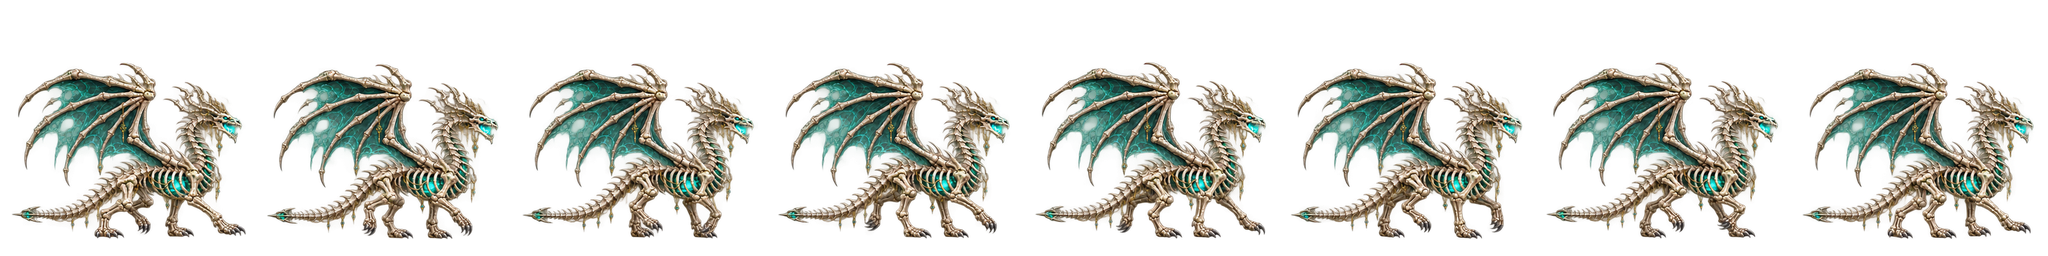
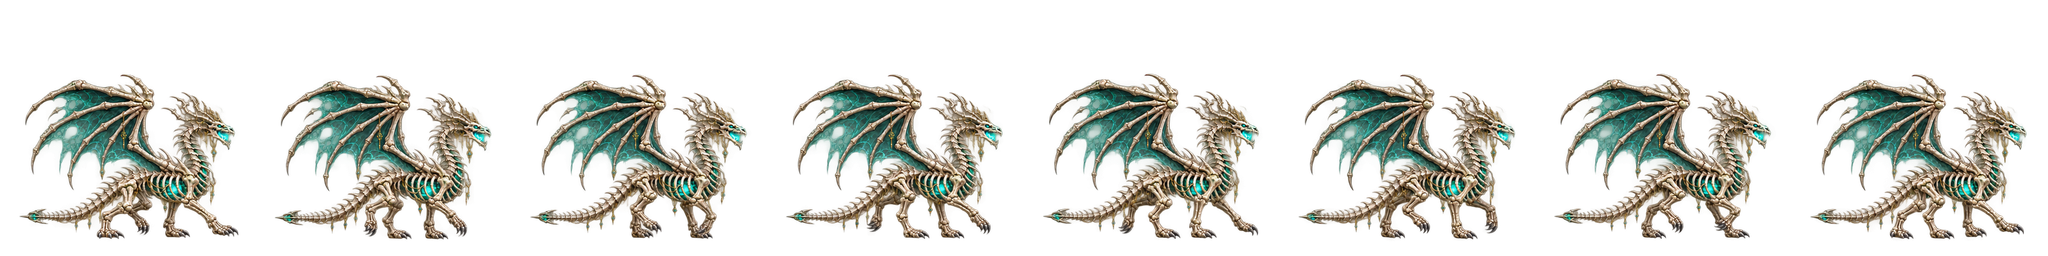
고침: 변환 스크립트가 상태마다 다른 배율을 쓰던 문제
- --set 으로 한 드래곤의 여러 상태를 한 번에 변환하면 기준 상태(idle)로
  배율을 한 번 정해 모든 상태에 같은 배율을 쓴다
- 위치는 상태마다 바닥 중앙에 맞춘다 (원본 캔버스의 상태 간 위치는 믿지 않음)
- --scale-state 로 원본 그림 자체가 다른 크기일 때 상태별 보정
- 망령룡 세 시트를 같은 배율로 다시 변환 (비행이 대기의 73%였던 문제 해결)

Claude-Session: https://claude.ai/code/session_016odmvmxTxUNzgUnkFfijvc

diff --git a/tools/make_sheet.py b/tools/make_sheet.py
@@ -76,10 +76,121 @@ def load_frames(src: Path, cols, mirror):
     return frames
 
 
+def union_box(boxes):
+    return (min(b[0] for b in boxes), min(b[1] for b in boxes),
+            max(b[2] for b in boxes), max(b[3] for b in boxes))
+
+
+def multi(args, cell, anchor_x, anchor_y):
+    """한 드래곤의 여러 상태를 같은 배율·같은 위치로 변환한다.
+
+    상태마다 따로 변환하면 비행처럼 윤곽이 큰 동작이 더 작게 그려진다
+    (날개를 펼쳐 윤곽 높이가 커지는데 그 높이를 --ratio 에 맞추므로).
+    여기서는 기준 상태의 윤곽으로 배율을 한 번 정하고 모든 상태에 그대로 쓴다.
+    원본 캔버스 안에서의 상태 간 위치 차이도 그대로 보존된다.
+    """
+    sets = {}
+    for item in args.set:
+        if "=" not in item:
+            sys.exit(f"--set 형식은 상태=경로 입니다: {item}")
+        state, path = item.split("=", 1)
+        sets[state.strip()] = Path(path.strip())
+
+    loaded = {}
+    for state, path in sets.items():
+        frames = load_frames(path, args.cols, args.mirror)
+        boxes = []
+        for name, img in frames:
+            b = content_bbox(img)
+            if b is None:
+                sys.exit(f"{name} 가 완전히 투명합니다.")
+            boxes.append(b)
+        loaded[state] = (frames, union_box(boxes))
+
+    tweak = {}
+    for item in args.scale_state:
+        if "=" not in item:
+            sys.exit(f"--scale-state 형식은 상태=배수 입니다: {item}")
+        k, v = item.split("=", 1)
+        if k.strip() not in loaded:
+            sys.exit(f"--scale-state {k.strip()} 는 --set 에 없습니다.")
+        try:
+            tweak[k.strip()] = float(v)
+        except ValueError:
+            sys.exit(f"--scale-state 배수를 읽을 수 없습니다: {v}")
+
+    ref = args.ref or ("idle" if "idle" in loaded else next(iter(loaded)))
+    if ref not in loaded:
+        sys.exit(f"--ref {ref} 는 --set 에 없습니다.")
+
+    # 1) 기준 상태의 윤곽 높이를 --ratio 로 맞추는 배율
+    rx0, ry0, rx1, ry1 = loaded[ref][1]
+    scale = (args.ratio * cell) / (ry1 - ry0)
+
+    # 2) 모든 상태가 칸 안에 들어가도록 배율의 상한을 구한다.
+    #    상태마다 바닥을 anchor_y 에 맞추므로, 각 상태가 그 선 위에 들어가야 한다.
+    limits = []
+    for state, (_, (ux0, uy0, ux1, uy1)) in loaded.items():
+        t = tweak.get(state, 1.0)
+        limits.append(anchor_y / (uy1 - uy0) / t)             # 바닥선 위에 들어가야 한다
+        limits.append(2.0 * anchor_x / (ux1 - ux0) / t)       # 가로 중심 기준으로 칸 안에
+        limits.append(2.0 * (cell - anchor_x) / (ux1 - ux0) / t)
+    cap = min(limits) * 0.995
+    if cap < scale:
+        print(f"[알림] 가장 큰 상태가 칸을 넘어 공통 배율을 {scale:.4f} → {cap:.4f} 로 낮췄습니다. "
+              f"기준 상태 높이가 칸의 {(ry1 - ry0) * cap / cell:.0%}가 됩니다(목표 {args.ratio:.0%}).")
+        scale = cap
+
+    # 3) 배율은 모든 상태가 공유하고(크기가 변하지 않게), 위치는 상태마다
+    #    자기 윤곽의 바닥 중앙을 기준점에 맞춘다.
+    #    원본 캔버스 안의 상태 간 위치 차이는 믿지 않는다. 패키지가 따로 만들어져
+    #    기준이 다를 수 있고, 공중에 떠 보이게 하는 것은 게임이 화면에서 처리한다
+    #    (날 때는 화면 위쪽으로 올라가고 그림자가 작아진다).
+
+    out_dir = Path(args.out)
+    out_dir.mkdir(parents=True, exist_ok=True)
+    for state, (frames, (ux0, uy0, ux1, uy1)) in loaded.items():
+        st_scale = scale * tweak.get(state, 1.0)
+        # 이 상태의 바닥 중앙을 기준점으로. 프레임 간 움직임은 보존된다.
+        ox = anchor_x - ((ux0 + ux1) * 0.5) * st_scale
+        oy = anchor_y - uy1 * st_scale
+        sheet = Image.new("RGBA", (cell * len(frames), cell), (0, 0, 0, 0))
+        for i, (name, img) in enumerate(frames):
+            w = max(1, round(img.width * st_scale))
+            h = max(1, round(img.height * st_scale))
+            small = img.resize((w, h), Image.LANCZOS)
+            # 칸보다 큰 원본을 음수 좌표에도 놓을 수 있게 넉넉한 임시 캔버스를 쓴다
+            pad = max(w, h, cell)
+            tmp = Image.new("RGBA", (cell + 2 * pad, cell + 2 * pad), (0, 0, 0, 0))
+            tmp.alpha_composite(small, (round(ox) + pad, round(oy) + pad))
+            fcell = tmp.crop((pad, pad, pad + cell, pad + cell))
+            sheet.alpha_composite(fcell, (cell * i, 0))
+        path = out_dir / f"{state}.png"
+        sheet.save(path)
+        bh = round((uy1 - uy0) * st_scale)
+        mark = " (기준)" if state == ref else (f" x{tweak[state]:g}" if state in tweak else "")
+        print(f"완료: {path}  프레임 {len(frames)}장, 윤곽 높이 {bh}px{mark}")
+    print(f"공통 배율 {scale:.4f}, 칸 {cell}x{cell}, 바닥 y={anchor_y}")
+    print(f"dragon.txt 에 적을 값: frame_w={cell}")
+    return 0
+
+
 def main():
     p = argparse.ArgumentParser(description="낱장 프레임/원본 시트 -> 규격 스프라이트 시트")
-    p.add_argument("src", help="프레임 PNG 폴더, 또는 이어 붙인 시트 PNG 1장")
-    p.add_argument("-o", "--out", required=True, help="출력 시트 PNG 경로")
+    p.add_argument("src", nargs="?", help="프레임 PNG 폴더, 또는 이어 붙인 시트 PNG 1장")
+    p.add_argument("-o", "--out", required=True,
+                   help="출력 시트 PNG 경로. --set 을 쓸 때는 출력 폴더")
+    p.add_argument("--set", action="append", default=[], metavar="상태=경로",
+                   help="한 드래곤의 여러 상태를 한 번에 변환한다(권장). "
+                        "예: --set idle=프레임/대기 --set fly=프레임/비행. "
+                        "모든 상태에 같은 배율·같은 위치를 써서 상태가 바뀔 때 크기가 변하지 않는다.")
+    p.add_argument("--scale-state", action="append", default=[], metavar="상태=배수",
+                   help="--set 과 함께. 그 상태만 공통 배율에 배수를 곱한다. "
+                        "원본 그림 자체가 다른 상태보다 작거나 크게 그려졌을 때만 쓴다. "
+                        "예: --scale-state fly=1.08")
+    p.add_argument("--ref", default=None, metavar="상태",
+                   help="--set 과 함께. 크기 기준이 되는 상태(기본: idle, 없으면 첫 번째). "
+                        "이 상태의 윤곽 높이가 --ratio 가 되고 나머지는 같은 배율을 쓴다.")
     p.add_argument("--cols", type=int, default=None,
                    help="입력이 시트 1장일 때 프레임 수")
     p.add_argument("--cell", type=int, default=256, help="출력 칸 크기 (기본 256)")
@@ -97,6 +208,13 @@ def main():
     cell = args.cell
     anchor_y = args.anchor_y if args.anchor_y is not None else round(cell * 240 / 256)
     anchor_x = cell // 2
+
+    if args.set:
+        return multi(args, cell, anchor_x, anchor_y)
+    if not args.src:
+        sys.exit("프레임 폴더를 지정하거나 --set 을 쓰세요.")
+    print("[알림] 상태를 하나씩 따로 변환하면 상태마다 캐릭터 크기가 달라질 수 있습니다.\n"
+          "       한 드래곤의 여러 상태는 --set 으로 한 번에 변환하세요.")
 
     frames = load_frames(Path(args.src), args.cols, args.mirror)
 

diff --git a/assets/dragons/revenant/CREDITS.md b/assets/dragons/revenant/CREDITS.md
@@ -2,9 +2,16 @@
 
 | 파일 | 원본 | 변환 |
 |---|---|---|
-| `idle.png` | `references/revenant-dragon/work-2026-11-13/REVENANT_IDLE_FINAL_V1.zip` 의 `FINAL_FRAMES` 4장 | `tools/make_sheet.py --mirror` |
-| `move.png` | 같은 폴더 `REVENANT_WALK_FINAL_V1.zip` 의 `FINAL_FRAMES` 8장 | `tools/make_sheet.py --mirror` |
-| `fly.png` | 같은 폴더 `REVENANT_FLY_FINAL_V1.zip` 의 `FINAL_FRAMES` 8장 | `tools/make_sheet.py --mirror` |
+| `idle.png` | `references/revenant-dragon/work-2026-11-13/REVENANT_IDLE_FINAL_V1.zip` 의 `FINAL_FRAMES` 4장 | 아래 한 번의 명령 |
+| `move.png` | 같은 폴더 `REVENANT_WALK_FINAL_V1.zip` 의 `FINAL_FRAMES` 8장 | 아래 한 번의 명령 |
+| `fly.png` | 같은 폴더 `REVENANT_FLY_FINAL_V1.zip` 의 `FINAL_FRAMES` 8장 | 아래 한 번의 명령 |
+
+세 시트는 **한 번의 명령으로 함께 변환**했다(상태 간 크기를 맞추기 위해 필수):
+
+```
+python tools/make_sheet.py --mirror -o assets/dragons/revenant \
+  --set idle=<IDLE>/FINAL_FRAMES --set move=<WALK>/FINAL_FRAMES --set fly=<FLY>/FINAL_FRAMES
+```
 
 생성형 AI로 만든 자료이며, 디자인 기준은 [망령룡 캐릭터 기획](../../../docs/characters/revenant-dragon.md)을 따른다.
 

diff --git a/assets/dragons/README.md b/assets/dragons/README.md
@@ -22,6 +22,12 @@
 시트는 **가로 한 줄**, 칸 크기 **256×256**, 발이 칸의 **(128, 240)**에 오도록, **오른쪽을 보게** 만듭니다.
 [그리기 템플릿](template-256.png) 위에 레이어를 얹어 그리면 크기가 맞습니다.
 규격과 다르게 만든 그림은 [tools/make_sheet.py](../../tools/make_sheet.py)로 변환하세요.
+**한 드래곤의 여러 상태는 반드시 `--set`으로 한 번에 변환하세요.** 따로 변환하면 상태마다 크기가 달라집니다.
+
+```
+python tools/make_sheet.py --mirror -o assets/dragons/<키> \
+  --set idle=원본/대기 --set move=원본/걷기 --set fly=원본/비행
+```
 
 ## 1. 기존 드래곤에 그림만 넣기
 

diff --git a/docs/changelog.md b/docs/changelog.md
@@ -16,6 +16,9 @@
 
 ### 고침
 
+- **`tools/make_sheet.py`가 상태마다 다른 배율을 쓰던 문제.** 각 상태의 윤곽 높이를 저마다 칸의 70%에
+  맞추는 바람에, 날개를 펼쳐 윤곽이 긴 비행이 대기의 73% 크기로 작아졌다. `--set`으로 여러 상태를
+  한 번에 변환하면 기준 상태로 배율을 한 번 정해 모두에 같은 배율을 쓴다. 망령룡 시트를 다시 변환했다.
 - `tests/balance_sim.cpp`에서 `printf("%s")`에 `std::string`을 넘기던 문제를 고쳤다.
   v0.2에서 종 이름의 타입이 바뀌며 생긴 것으로, 시뮬레이션 출력이 깨져 보였다.
 

diff --git a/docs/character-pipeline.md b/docs/character-pipeline.md
@@ -113,6 +113,7 @@ range=380
 
 | 원본 형태 | 처리 |
 |---|---|
+| **한 드래곤의 여러 상태** | `--set idle=... --set move=... --set fly=...` **로 한 번에 변환한다.** 아래 참고 |
 | 낱장 프레임 폴더(캔버스 크기 동일) | 그대로 변환. 프레임 간 움직임 보존(기본, `--align union`) |
 | 이미 가로로 이어 붙인 시트 1장 | 칸이 정사각형이면 자동으로 자르고, 아니면 `--cols 프레임수` 지정 |
 | 캔버스 크기가 제각각인 낱장들 | 자동으로 `--align each`로 전환해 프레임마다 바닥 중앙을 맞춤 |
